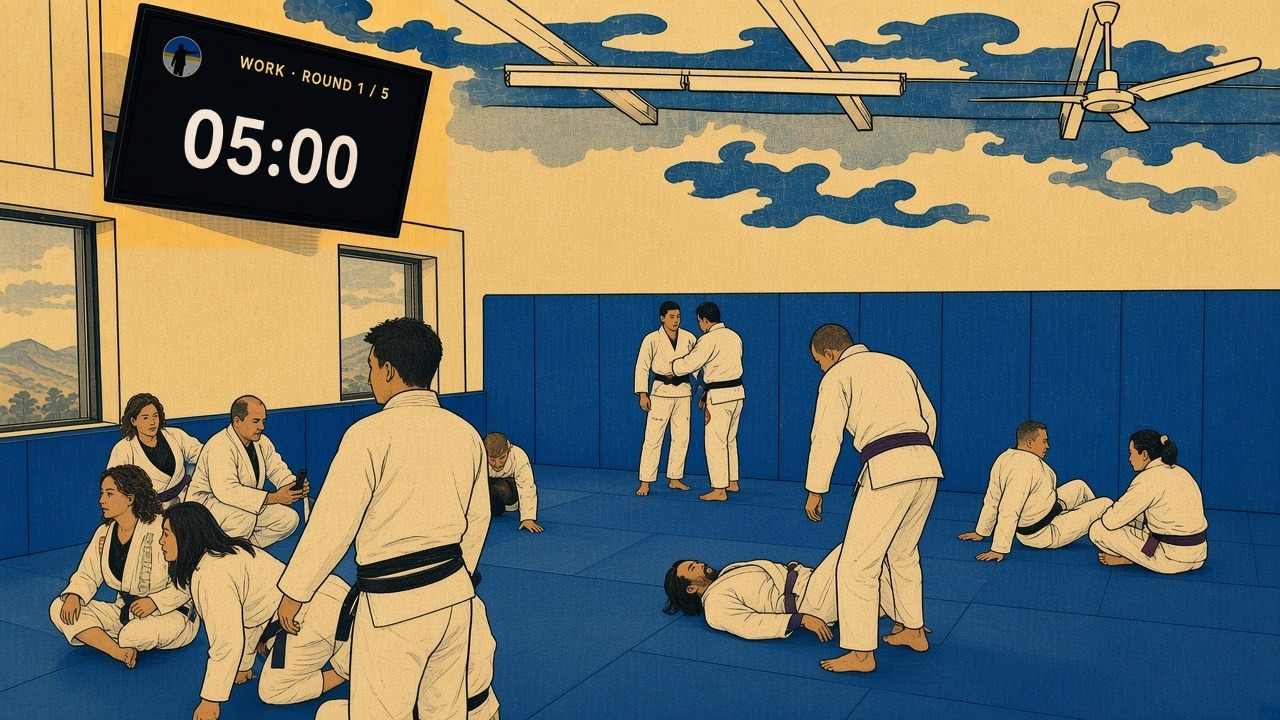
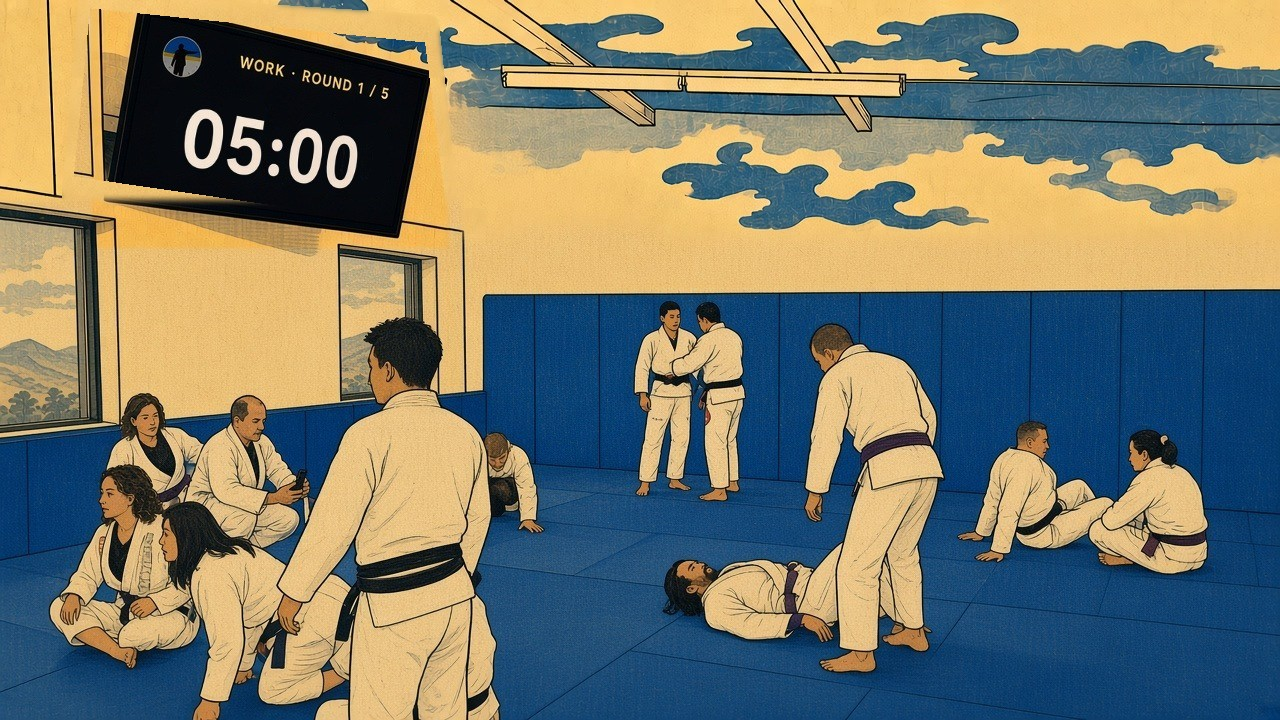
Homepage: shared woodcut ceiling and no Open my apps button (#620)
* Homepage: recolor tournament woodcut to match timer and scoreboard

Swap the tournament woodcut for the v11 recolor so its walls and sky
are the same warm golden tan as the other two prints, and the mats and
gis use the timer's deeper blue. Filenames, dimensions, and paths are
unchanged.

* Homepage: give all three woodcuts the scoreboard ceiling

Swap the timer for woodblock-timer-v2 and the tournament print for
woodblock-bracket-tv-v12 so each scene uses the scoreboard's two simple
beams and blue clouds. The timer fan and the tournament's crossed
rafters are gone. People, mats, clock, and TV are unchanged, and the
tournament print keeps the earlier color match. The scoreboard image
is unchanged. Filenames and dimensions stay 1280×720.

* Homepage: remove the Open my apps button from the hero

The white Open my apps button under Coming soon to the App Store is
gone for licensed and unlicensed visitors alike. Students still reach
the apps through the Alpha testers link in the footer. The Coming soon
line stays, and the empty button wrapper and its CSS are removed so
the hero does not leave a gap.

---------

Changed region(s): [[0.0312, 0.0, 1.0, 0.3361], [0.0, 0.2139, 0.1875, 0.3056]]

diff --git a/src/pages/HomeLicenseRedirect.test.tsx b/src/pages/HomeLicenseRedirect.test.tsx
@@ -106,7 +106,7 @@ test('no license: `/` stays on the public homepage and has no Open my apps butto
   done();
 });
 
-test('licensed: `/` stays on the public homepage and shows Open my apps to /products', async () => {
+test('licensed: `/` stays on the public homepage with no Open my apps button', async () => {
   reset();
   setWhiteUnlocked(true);
   const { host, router, done } = await mountRouter(['/'], homeRoutes);
@@ -114,9 +114,10 @@ test('licensed: `/` stays on the public homepage and shows Open my apps to /prod
   assert.equal(router.state.historyAction, 'POP');
   assert.ok(host.querySelector('main.home--store'));
   assert.match(host.textContent ?? '', /Win by Advantage/);
-  const button = openMyApps(host);
-  assert.ok(button, 'Open my apps should appear for a saved unlock');
-  assert.equal(button.getAttribute('href'), PRODUCTS_PATH);
+  assert.equal(openMyApps(host), null);
+  const alpha = [...host.querySelectorAll('a')].find((node) => node.textContent?.trim() === 'Alpha testers');
+  assert.ok(alpha, 'Alpha testers footer link should remain');
+  assert.equal(alpha.getAttribute('href'), PRODUCTS_PATH);
   assert.equal(host.querySelector('[data-home="products"]'), null);
   done();
 });
@@ -145,8 +146,8 @@ test('App.tsx PublicHomeRoute no longer auto-redirects saved access, and still f
   assert.match(src, /return <StorefrontPage \/>;/);
   assert.doesNotMatch(src, /HomeLicenseRedirect/);
   const hero = readFileSync(resolve('src/pages/StorefrontHero.tsx'), 'utf8');
-  assert.match(hero, /Open my apps/);
-  assert.match(hero, /useHasSavedAdvantageAccess/);
+  assert.doesNotMatch(hero, /Open my apps/);
+  assert.doesNotMatch(hero, /useHasSavedAdvantageAccess/);
 });
 
 test('/products home and back stay on /products and never link to `/`', async () => {

diff --git a/src/pages/storefrontHero.css b/src/pages/storefrontHero.css
@@ -82,10 +82,6 @@
 }
 
 /* Plain status line under the wordmark. Not a link; no Apple badge. */
-.home.home--store .sfh-apps {
-  margin: 16px 0 0;
-}
-
 .home.home--store .sfh-appstore {
   margin: 10px 0 0;
   font-size: 13px;
@@ -506,8 +502,7 @@
   }
 
   .home.home--store .sfh--a .sfh-brand,
-  .home.home--store .sfh--a .sfh-appstore,
-  .home.home--store .sfh--a .sfh-apps { order: 1; }
+  .home.home--store .sfh--a .sfh-appstore { order: 1; }
   .home.home--store .sfh--a .sfh-title { order: 2; }
   .home.home--store .sfh--a .sfh-lead { order: 3; }
   .home.home--store .sfh--a .sfh-stage { order: 4; margin: 22px 0 0; }
@@ -553,8 +548,7 @@
   }
 
   .home.home--store .sfh--c .sfh-brand,
-  .home.home--store .sfh--c .sfh-appstore,
-  .home.home--store .sfh--c .sfh-apps { order: 1; }
+  .home.home--store .sfh--c .sfh-appstore { order: 1; }
   .home.home--store .sfh--c .sfh-title { order: 2; }
   .home.home--store .sfh--c .sfh-lead { order: 3; }
   .home.home--store .sfh--c .sfh-stage { order: 4; margin-top: 22px; padding-bottom: 18%; }
@@ -1106,8 +1100,7 @@
   }
 
   .home.home--store .sfh--e .sfh-brand,
-  .home.home--store .sfh--e .sfh-appstore,
-  .home.home--store .sfh--e .sfh-apps { order: 1; }
+  .home.home--store .sfh--e .sfh-appstore { order: 1; }
   .home.home--store .sfh--e .sfh-title { order: 2; }
   .home.home--store .sfh--e .sfh-lead { order: 3; }
   .home.home--store .sfh--e .sfh-stage { order: 4; margin-top: 10px; width: 100%; gap: 6px; }
@@ -1125,12 +1118,6 @@
     display: flex;
     padding: 18px 20px 0;
     border-radius: 20px 20px 0 0;
-  }
-
-  .home.home--store .sfh--e .sfh-apps {
-    margin: 0;
-    padding: 14px 20px 0;
-    background: rgba(0, 0, 0, 0.64);
   }
 
   .home.home--store .sfh--e .sfh-appstore {

diff --git a/src/lib/storefront.test.ts b/src/lib/storefront.test.ts
@@ -176,6 +176,16 @@ test('the homepage hero has a plain Coming soon to the App Store line, not a bad
   assert.doesNotMatch(around, /<Link[^>]*>Coming soon to the App Store/);
 });
 
+test('the homepage hero has no Open my apps button; Alpha testers stays in the footer', () => {
+  const hero = readFileSync(new URL('../pages/StorefrontHero.tsx', import.meta.url), 'utf8');
+  const page = readFileSync(new URL('../pages/Storefront.tsx', import.meta.url), 'utf8');
+  const css = readFileSync(new URL('../pages/storefrontHero.css', import.meta.url), 'utf8');
+  assert.doesNotMatch(hero, /Open my apps/);
+  assert.doesNotMatch(hero, /useHasSavedAdvantageAccess/);
+  assert.doesNotMatch(css, /\.sfh-apps\b/);
+  assert.match(page, /to=\{PRODUCTS_PATH\}>Alpha testers</);
+});
+
 test('the homepage hero has no Student Edition or other edition CTAs, and See how it works scrolls the page', () => {
   const hero = readFileSync(new URL('../pages/StorefrontHero.tsx', import.meta.url), 'utf8');
   const page = readFileSync(new URL('../pages/Storefront.tsx', import.meta.url), 'utf8');

diff --git a/src/pages/StorefrontHero.tsx b/src/pages/StorefrontHero.tsx
@@ -1,6 +1,4 @@
 import { Link, useSearchParams } from 'react-router-dom';
-import { useHasSavedAdvantageAccess } from '../hooks/useHasSavedAdvantageAccess';
-import { PRODUCTS_PATH } from '../lib/productNames';
 import { STOREFRONT_HERO } from '../lib/storefront';
 import { heroVariantOf } from '../lib/storefrontHero';
 import './storefrontHero.css';
@@ -35,26 +33,8 @@ function Brand() {
   );
 }
 
-/** Shown only when this browser already has a saved unlock, seat, or student code. */
-function OpenMyApps() {
-  const saved = useHasSavedAdvantageAccess();
-  if (!saved) return null;
-  return (
-    <div className="sfh-apps">
-      <Link className="sf-buy sfh-buy" to={PRODUCTS_PATH}>
-        Open my apps
-      </Link>
-    </div>
-  );
-}
-
 function HeroTop() {
-  return (
-    <>
-      <Brand />
-      <OpenMyApps />
-    </>
-  );
+  return <Brand />;
 }
 
 /** B v2: headline in open space, the one-line lead, no duplicate paragraph. */

diff --git a/e2e/storefront.spec.ts b/e2e/storefront.spec.ts
@@ -85,6 +85,7 @@ test('public homepage sells Advantage White and links coming soon to the edition
   await expect(page.getByRole('link', { name: 'Request to join alpha' })).toHaveCount(0);
   await expect(page.getByText('Coming soon to the App Store', { exact: true })).toBeVisible();
   await expect(page.getByRole('link', { name: 'Coming soon to the App Store' })).toHaveCount(0);
+  await expect(page.getByRole('link', { name: 'Open my apps' })).toHaveCount(0);
   const testers = page.getByRole('contentinfo').getByRole('link', { name: 'Alpha testers' });
   await expect(testers).toHaveAttribute('href', '/products');
   await expect(page.getByRole('contentinfo').getByRole('link', { name: 'Privacy Policy' })).toBeVisible();
